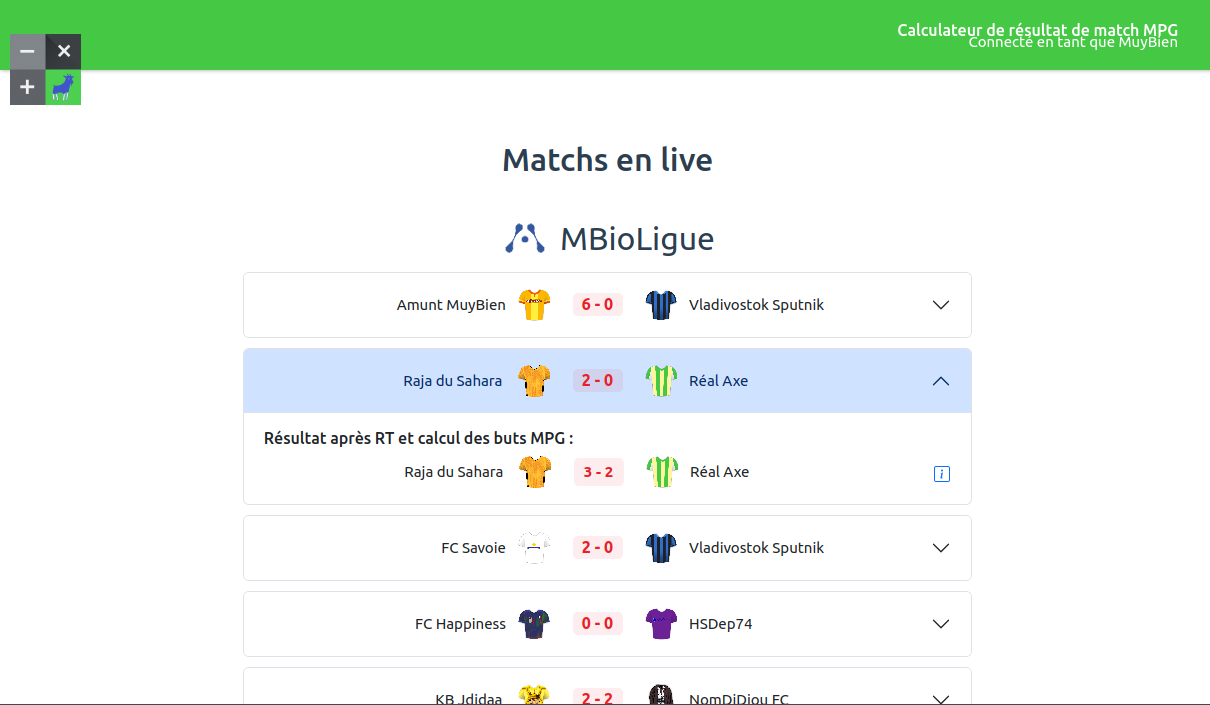
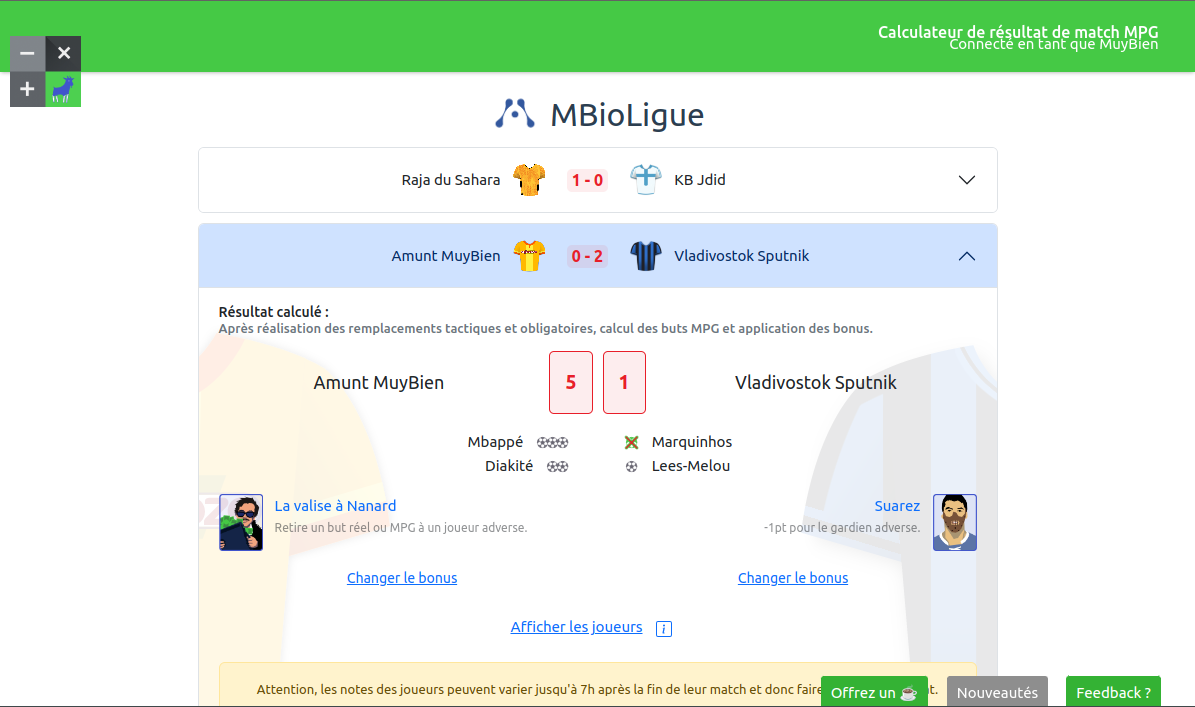
Met à jour la doc avec les derniers dev et interfaces

diff --git a/README.md b/README.md
@@ -6,6 +6,8 @@ https://mpg-calculator.fr
 
 Si vous aussi, vous avez déjà calculé les moyennes de chaque ligne de l'équipe de votre adversaire le dimanche soir en vous demandant si Artur Theate allait rentrer ou pas à la place de Lala et si Savanier allait finalement mettre ce but MPG qui vous donne la victoire, alors vous êtes à la bonne adresse.
 
-En remplissant la composition de votre équipe et celle de l'adversaire, le résultat final apparaîtra alors sans aucun effort.  
+En vous connectant avec vos logins MPG, le résultat final du match du weekend apparaîtra alors sans aucun effort.
 
-Il restera toujours le suspens du bonus utilisé qui fera peut-être pencher la balance de son côté... ou pas.
+![image](https://gitlab.com/MuyBien/mpg-calculator/-/raw/master/public/img/screenshots/screenshot-1.png?ref_type=heads)
+
+Faites varier le bonus de l'adversaire pour vérifier l'effet sur le match et le score final.
